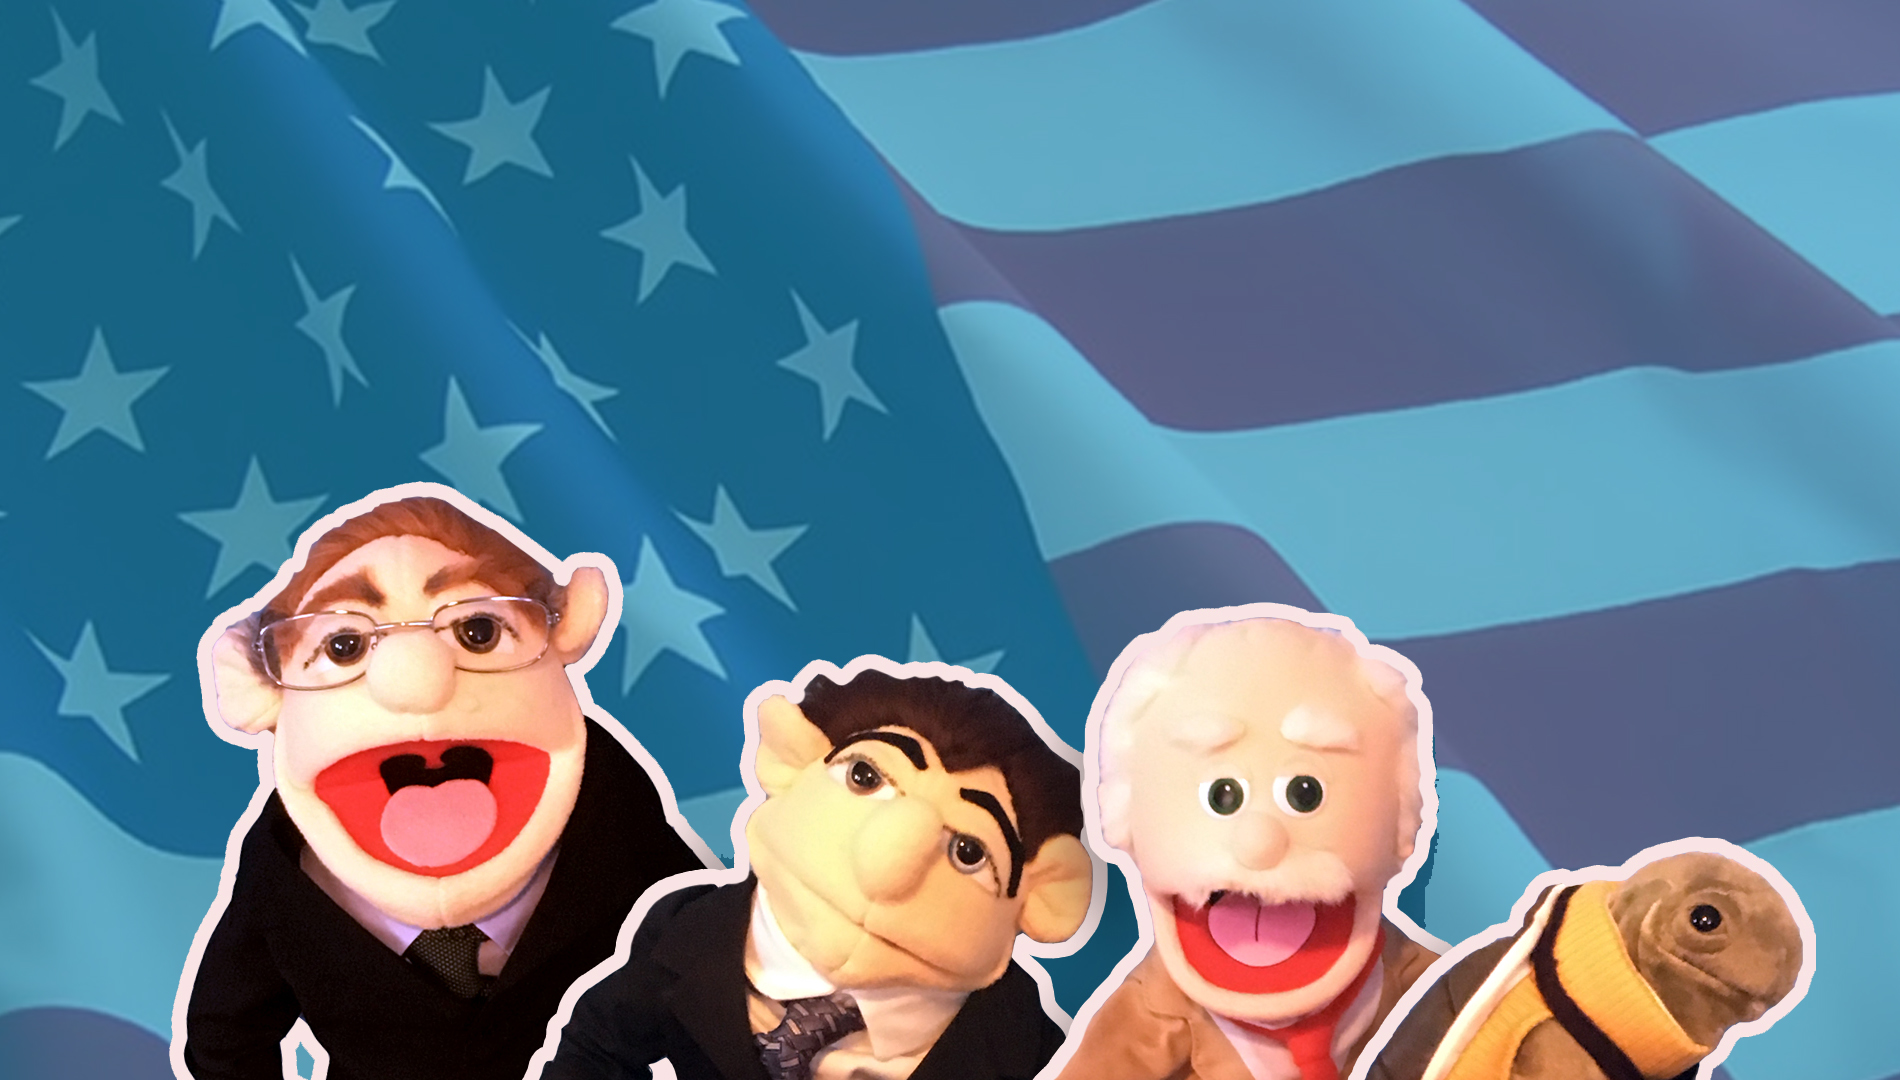
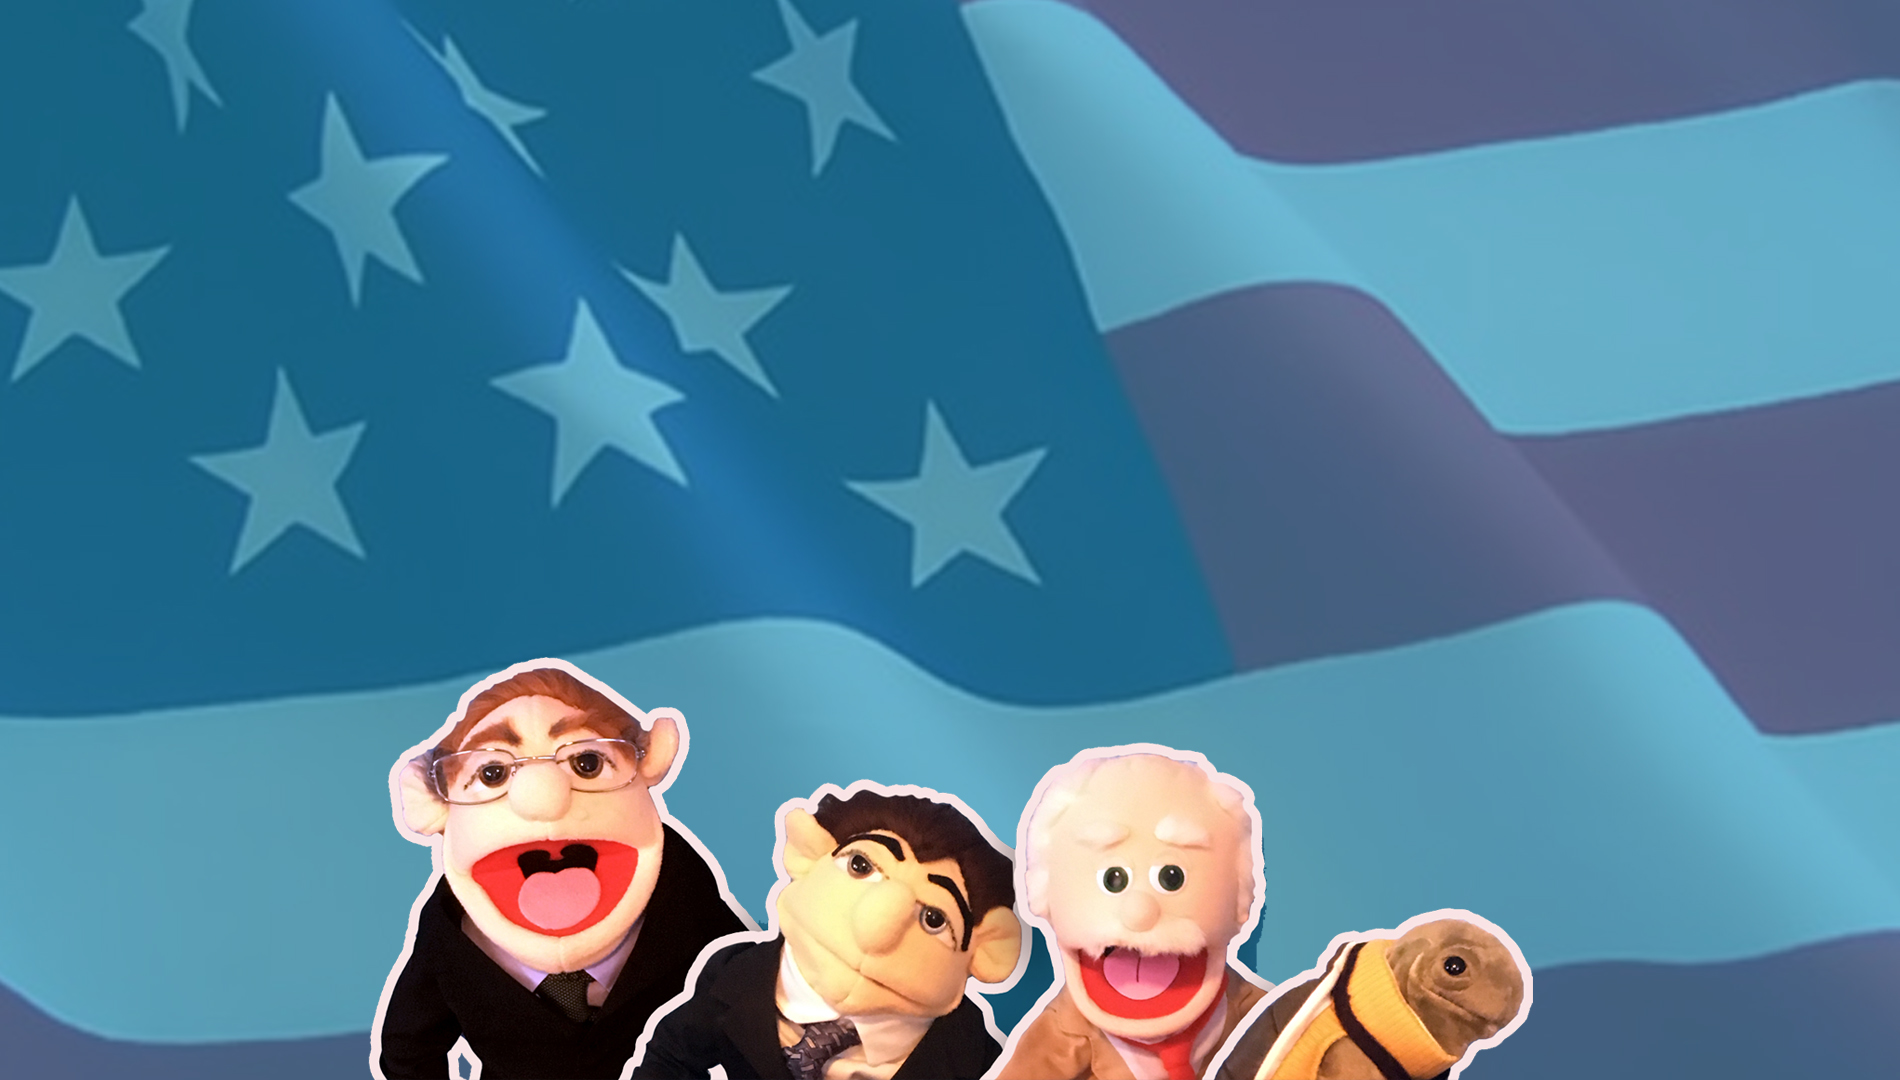
resize header for devices

diff --git a/index.html b/index.html
@@ -43,7 +43,7 @@
     </nav>
 
     <header>
-      <div id="carouselExampleIndicators" class="carousel slide" data-ride="carousel">
+      <div id="carouselExampleIndicators" class="carousel slide d-md-none" data-ride="carousel">
         <ol class="carousel-indicators">
           <li data-target="#carouselExampleIndicators" data-slide-to="0" class="active"></li>
           <li data-target="#carouselExampleIndicators" data-slide-to="1"></li>
@@ -51,13 +51,9 @@
         <div class="carousel-inner" role="listbox">
           <!-- Slide One - Set the background image for this slide in the line below -->
           <div class="carousel-item active" style="background-image: url('/img/Landing1.jpg')">
-            <div class="carousel-caption d-none d-md-block">
-            </div>
           </div>
           <!-- Slide Two - Set the background image for this slide in the line below -->
           <div class="carousel-item" style="background-image: url('/img/Landing2.jpg'); background-position-y: bottom">
-            <div class="carousel-caption d-none d-md-block">
-            </div>
           </div>
         </div>
         <a class="carousel-control-prev" href="#carouselExampleIndicators" role="button" data-slide="prev">
@@ -65,6 +61,29 @@
           <span class="sr-only">Previous</span>
         </a>
         <a class="carousel-control-next" href="#carouselExampleIndicators" role="button" data-slide="next">
+          <span class="carousel-control-next-icon" aria-hidden="true"></span>
+          <span class="sr-only">Next</span>
+        </a>
+      </div>
+
+      <div id="carouselExampleIndicatorsSmallScreen" class="carousel slide d-none d-md-block" data-ride="carousel">
+        <ol class="carousel-indicators">
+          <li data-target="#carouselExampleIndicatorsSmallScreen" data-slide-to="0" class="active"></li>
+          <li data-target="#carouselExampleIndicatorsSmallScreen" data-slide-to="1"></li>
+        </ol>
+        <div class="carousel-inner" role="listbox">
+          <!-- Slide One - Set the background image for this slide in the line below -->
+          <div class="carousel-item big-screen active" style="background-image: url('/img/Landing1.jpg')">
+          </div>
+          <!-- Slide Two - Set the background image for this slide in the line below -->
+          <div class="carousel-item big-screen" style="background-image: url('/img/Landing2.jpg'); background-position-y: bottom">
+          </div>
+        </div>
+        <a class="carousel-control-prev" href="#carouselExampleIndicatorsSmallScreen" role="button" data-slide="prev">
+          <span class="carousel-control-prev-icon" aria-hidden="true"></span>
+          <span class="sr-only">Previous</span>
+        </a>
+        <a class="carousel-control-next" href="#carouselExampleIndicatorsSmallScreen" role="button" data-slide="next">
           <span class="carousel-control-next-icon" aria-hidden="true"></span>
           <span class="sr-only">Next</span>
         </a>

diff --git a/css/modern-business.css b/css/modern-business.css
@@ -14,8 +14,11 @@ body {
   }
 }
 
-.carousel-item {
+.big-screen{
   height: 65vh;
+}
+
+.carousel-item {
   min-height: 300px;
   background: no-repeat center center scroll;
   -webkit-background-size: cover;
